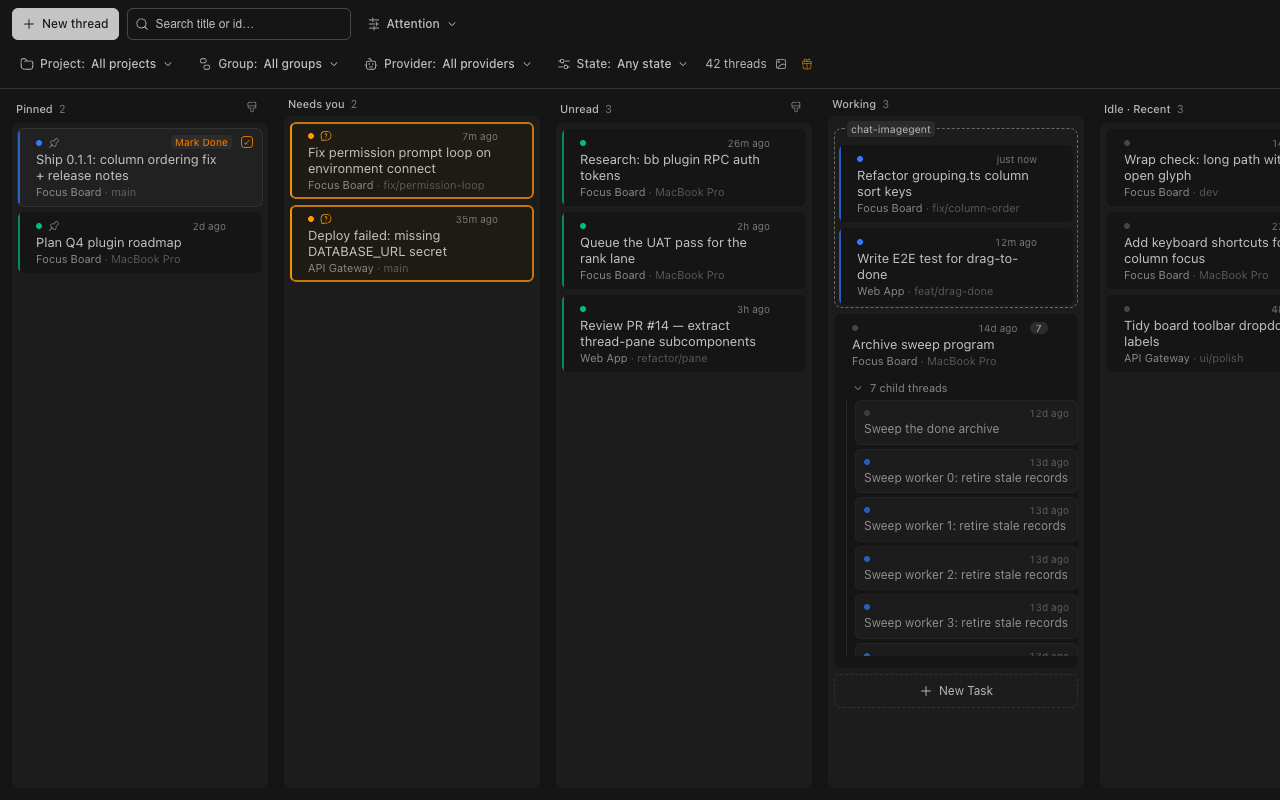
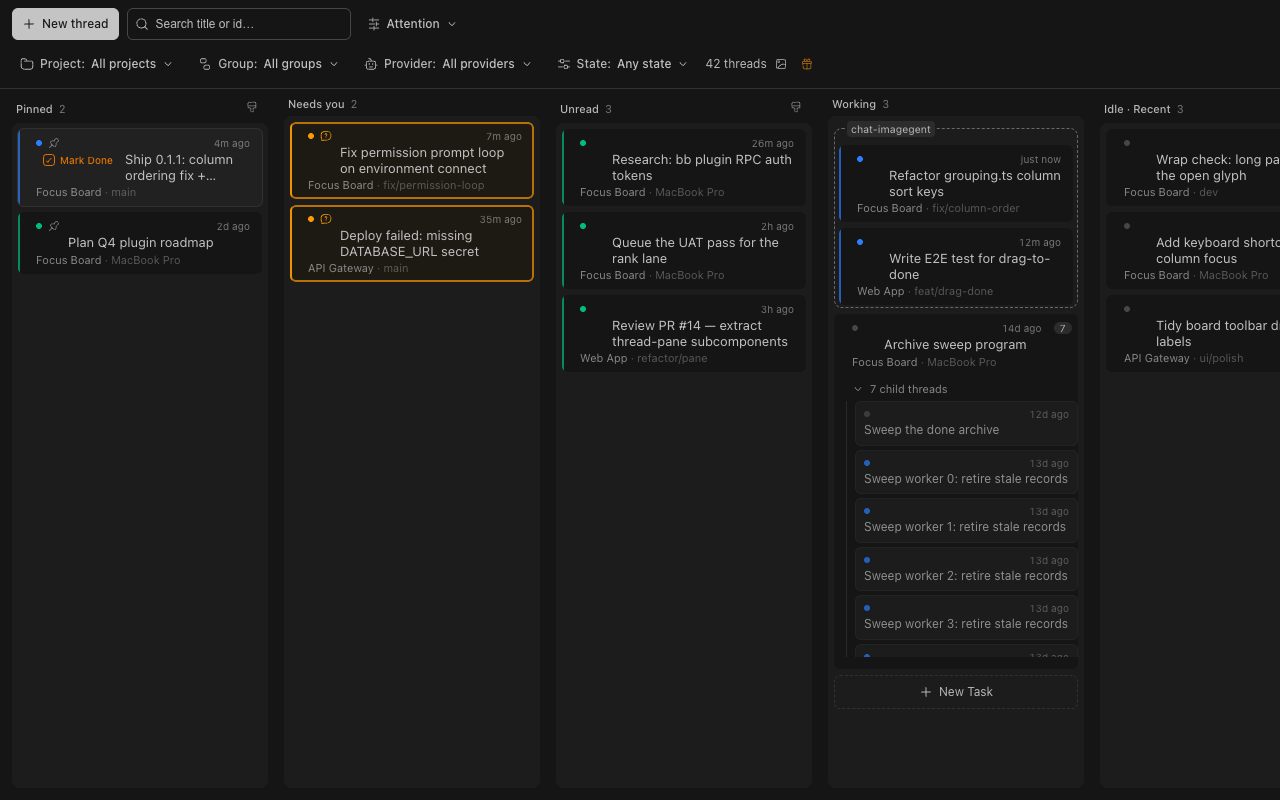
The done checkbox moves left of the title; done cards arm Mark Not Done

diff --git a/components/thread-card.tsx b/components/thread-card.tsx
@@ -88,11 +88,12 @@ interface ThreadCardProps {
    */
   onSweepToggle?: (threadId: string, gesture: SweepClickGesture) => void;
   /**
-   * The hover Mark Done checkbox's write, for non-done cards: the empty
-   * checkbox reveals on card hover, the first click arms it ("Mark Done"),
-   * the second click fires this. Absent → no checkbox renders (done cards,
-   * unwired surfaces, compact context minis). The board passes the same
-   * "done" menu action's run, so the checkbox shares the menu's full
+   * The title-row checkbox's write, wired both ways: the "done" menu
+   * action's run, which marks a not-done thread done and a done thread not
+   * done (the card mirrors: an empty box on not-done cards, a checked one
+   * on done). The first click arms, the second fires this. Absent → no
+   * checkbox renders (unwired surfaces: compact context minis). The board
+   * passes the menu action's run, so the checkbox shares the menu's full
    * done recipe with no second source of truth.
    */
   onMarkDone?: () => void;
@@ -615,24 +616,29 @@ export function ThreadCard({
   const fades = isDone || dimmed || snoozed;
   const dimsByScrim = wallpaperActive && fades && !isSweepHighlighted;
 
-  // The two-click Mark Done checkbox (non-done cards only): idle the card
-  // carries an empty checkbox that only paints on hover (the CSS `group`
-  // reveals it); the first click ARMS it — the icon fills to a check and a
-  // "Mark Done" tag slides out over the timestamp — and the second click
-  // fires `onMarkDone`. Hovering away disarms, so an armed card never
-  // survives a stray pointer into a later accidental settle. Sweeps are
-  // modal: while this card's column curates a sweep the checkbox cedes
-  // every click to the selection gesture.
+  // The two-click Mark Done checkbox, sitting LEFT OF THE THREAD TITLE in a
+  // reserved gutter (the title never reflows on hover — only ARMING pushes,
+  // adding the inline label so the title wraps in the narrower space).
+  // Done cards mirror it: a checked box that arms "Mark Not Done". The
+  // first click arms, the second fires `onMarkDone`; hovering away disarms,
+  // so an armed card never survives a stray pointer into a later
+  // accidental settle. Sweeps are modal: while this card's column curates
+  // a sweep the checkbox cedes every click to the selection gesture.
   const [armedDone, setArmedDone] = useState(false);
-  const showDoneCheckbox = !isDone && onMarkDone !== undefined && !isSweepSelecting;
+  const showDoneCheckbox = onMarkDone !== undefined && !isSweepSelecting;
+  const doneLabel = isDone ? "Mark Not Done" : "Mark Done";
   const doneCheckbox = showDoneCheckbox ? (
     <button
       type="button"
       data-done-checkbox=""
       data-done-armed={armedDone ? "" : undefined}
-      aria-label={armedDone ? "Mark Done" : "Arm Mark Done"}
-      title={armedDone ? "Click again to mark done" : "Click to confirm Mark Done"}
+      aria-label={armedDone ? doneLabel : `Arm ${doneLabel}`}
+      title={armedDone ? "Click again to confirm" : "Click to arm"}
       onClick={(event) => {
+        // The checkbox lives inside the card's anchor — the ticket-chip
+        // precedent (interactive content in the anchor's flow). The stop
+        // keeps the anchor's own activation (open the pane, the sweep
+        // toggle, the native href) from firing under the checkbox's click.
         event.preventDefault();
         event.stopPropagation();
         if (armedDone) {
@@ -643,14 +649,14 @@ export function ThreadCard({
         }
       }}
       className={cn(
-        "relative -my-1 flex shrink-0 items-center justify-center rounded-sm p-0.5 transition-colors focus:outline-none focus-visible:ring-2 focus-visible:ring-ring",
+        "mt-px flex shrink-0 items-center gap-1 rounded-sm focus:outline-none focus-visible:ring-2 focus-visible:ring-ring",
         armedDone
-          ? "opacity-100 text-amber-600"
+          ? "text-amber-600"
           : "text-muted-foreground/50 opacity-0 group-hover:opacity-100 focus-visible:opacity-100",
       )}
     >
       <Icon
-        name={armedDone ? "CheckboxChecked" : "Checkbox"}
+        name={armedDone || isDone ? "CheckboxChecked" : "Checkbox"}
         className="size-3.5 shrink-0"
         aria-hidden
       />
@@ -658,9 +664,9 @@ export function ThreadCard({
         <span
           data-done-armed-tag=""
           aria-hidden
-          className="absolute right-full top-1/2 mr-1.5 -translate-y-1/2 whitespace-nowrap rounded-sm bg-muted px-1 py-0.5 text-[10px] font-medium leading-none text-amber-600"
+          className="whitespace-nowrap text-[10px] font-medium leading-none"
         >
-          Mark Done
+          {doneLabel}
         </span>
       ) : null}
     </button>
@@ -832,7 +838,14 @@ export function ThreadCard({
               {relativeTime(thread.updatedAt, now)}
             </span>
           </div>
-          <p className={cn("mt-0.5 line-clamp-2 pl-1.5 leading-snug", compact ? "text-[11px]" : "text-[13px]")}>{thread.displayTitle}</p>
+          {doneCheckbox === null ? (
+            <p data-title="" className={cn("mt-0.5 line-clamp-2 pl-1.5 leading-snug", compact ? "text-[11px]" : "text-[13px]")}>{thread.displayTitle}</p>
+          ) : (
+            <div className="mt-0.5 flex items-start gap-1.5 pl-1.5">
+              {doneCheckbox}
+              <p data-title="" className={cn("min-w-0 flex-1 line-clamp-2 leading-snug", compact ? "text-[11px]" : "text-[13px]")}>{thread.displayTitle}</p>
+            </div>
+          )}
           <p className="mt-0.5 truncate pl-1.5 text-[11px] text-muted-foreground/70">
             {projectName}
             {branch === "" ? null : <span className="text-muted-foreground/40"> · {branch}</span>}
@@ -861,17 +874,14 @@ export function ThreadCard({
             </div>
           )}
         </a>
-        {chipCount > 0 || doneCheckbox !== null ? (
-          <div className="flex shrink-0 items-start gap-1.5 py-2 pr-1.5">
-            {chipCount > 0 ? (
-              // Family-size metadata only: the collapsed rows' dot strip lives in
-              // the child section below, directly under the "N child threads"
-              // label it describes.
-              <span className="rounded-full bg-muted px-1.5 text-[10px] tabular-nums text-muted-foreground">
-                {chipCount}
-              </span>
-            ) : null}
-            {doneCheckbox}
+        {chipCount > 0 ? (
+          // Family-size metadata only: the collapsed rows' dot strip lives in
+          // the child section below, directly under the "N child threads"
+          // label it describes.
+          <div className="flex shrink-0 items-start py-2 pr-1.5">
+            <span className="rounded-full bg-muted px-1.5 text-[10px] tabular-nums text-muted-foreground">
+              {chipCount}
+            </span>
           </div>
         ) : null}
       </div>

diff --git a/tests/thread-card-done-checkbox.test.tsx b/tests/thread-card-done-checkbox.test.tsx
@@ -1,10 +1,12 @@
 // @vitest-environment jsdom
-// The hover Mark Done checkbox: on a non-done card, hovering reveals an
-// empty checkbox; the first click ARMS it ("Mark Done"), the second click
-// marks the thread done. A two-click arm exists so a stray hover-click can
-// never silently settle a thread into Done. This file pins the behavior the
-// operator actually sees: reveal, arm, confirm, disarm-on-leave, and the
-// gates (done cards and unwired cards render no checkbox).
+// The title-row Mark Done checkbox: a checkbox sits LEFT OF THE THREAD TITLE
+// in a reserved gutter (the title never reflows on hover — only arming
+// pushes, adding the inline label so the title wraps in the narrower
+// space). The first click ARMS, the second click fires the write. Done
+// cards mirror it: a CHECKED box that arms "Mark Not Done". This file pins
+// the behavior the operator actually sees: placement (title row, not the
+// corner), arm, confirm, disarm-on-leave, the done mirror, and the gates
+// (unwired surfaces and sweep-selecting mode render nothing).
 import { afterEach, describe, expect, it, vi } from "vitest";
 import { cleanup, fireEvent, render } from "@testing-library/react";
 import { ThreadCard } from "../components/thread-card";
@@ -38,46 +40,39 @@ function checkbox(): HTMLElement {
   return node;
 }
 
-describe("the hover Mark Done checkbox", () => {
-  it("renders on a non-done card with the wired handler, idle and unarmed", () => {
+describe("the title-row Mark Done checkbox", () => {
+  it("sits in the title row, left of the title, reserving the gutter", () => {
     card({ onMarkDone: () => {} });
     const node = checkbox();
+    // Structural placement contract: the checkbox's flex sibling is the
+    // title paragraph, so the box reads left of the title and the armed
+    // label grows in-flow (pushing the title right), never floating over
+    // the corner.
+    const row = node.parentElement;
+    if (!(row instanceof HTMLElement)) throw new Error("missing title row");
+    expect(row.className).toContain("flex");
+    const title = row.querySelector("p");
+    if (!(title instanceof HTMLElement)) throw new Error("missing title");
+    expect(title.className).toContain("flex-1");
+    expect(node.nextElementSibling).toBe(title);
+    // Idle: the empty checkbox glyph, unarmed, no label text.
     expect(node.hasAttribute("data-done-armed")).toBe(false);
-    // Idle state shows the EMPTY checkbox glyph (structural contract; the
-    // group-hover reveal itself is CSS).
-    const icon = node.querySelector("[data-icon]");
-    expect(icon?.getAttribute("data-icon")).toBe("Checkbox");
+    expect(node.querySelector("[data-icon]")?.getAttribute("data-icon")).toBe("Checkbox");
     expect(node.textContent).not.toContain("Mark Done");
   });
 
-  it("does not render on a done card", () => {
-    card({ isDone: true, onMarkDone: () => {} });
-    expect(document.querySelector("[data-done-checkbox]")).toBeNull();
-  });
-
-  it("does not render when the board gives no handler", () => {
-    card({});
-    expect(document.querySelector("[data-done-checkbox]")).toBeNull();
-  });
-
-  it("does not render in sweep-selecting mode (the click there curates the sweep)", () => {
-    card({ onMarkDone: () => {}, isSweepSelecting: true });
-    expect(document.querySelector("[data-done-checkbox]")).toBeNull();
-  });
-
-  it("arms on the first click without marking done", () => {
+  it("arms on the first click without firing the write, label pushing the title", () => {
     const onMarkDone = vi.fn();
     card({ onMarkDone });
     const node = checkbox();
     fireEvent.click(node);
     expect(node.hasAttribute("data-done-armed")).toBe(true);
     expect(node.textContent).toContain("Mark Done");
-    const icon = node.querySelector("[data-icon]");
-    expect(icon?.getAttribute("data-icon")).toBe("CheckboxChecked");
+    expect(node.querySelector("[data-icon]")?.getAttribute("data-icon")).toBe("CheckboxChecked");
     expect(onMarkDone).not.toHaveBeenCalled();
   });
 
-  it("marks done on the second click and disarms", () => {
+  it("fires the write on the second click and disarms", () => {
     const onMarkDone = vi.fn();
     card({ onMarkDone });
     const node = checkbox();
@@ -87,7 +82,7 @@ describe("the hover Mark Done checkbox", () => {
     expect(node.hasAttribute("data-done-armed")).toBe(false);
   });
 
-  it("disarms when the pointer leaves the card, without marking done", () => {
+  it("disarms when the pointer leaves the card, without firing the write", () => {
     const onMarkDone = vi.fn();
     card({ onMarkDone });
     const node = checkbox();
@@ -98,5 +93,33 @@ describe("the hover Mark Done checkbox", () => {
     fireEvent.pointerLeave(root);
     expect(node.hasAttribute("data-done-armed")).toBe(false);
     expect(onMarkDone).not.toHaveBeenCalled();
+  });
+
+  it("mirrors on a done card: a checked box that arms Mark Not Done", () => {
+    const onMarkDone = vi.fn();
+    card({ isDone: true, onMarkDone });
+    const node = checkbox();
+    // Idle done card: the CHECKED glyph, no label.
+    expect(node.querySelector("[data-icon]")?.getAttribute("data-icon")).toBe("CheckboxChecked");
+    expect(node.textContent).not.toContain("Mark Not Done");
+    // Armed: the "Mark Not Done" label joins in-flow.
+    fireEvent.click(node);
+    expect(node.hasAttribute("data-done-armed")).toBe(true);
+    expect(node.textContent).toContain("Mark Not Done");
+    expect(onMarkDone).not.toHaveBeenCalled();
+    // Confirm: the write fires (the handler flips done off its own state).
+    fireEvent.click(node);
+    expect(onMarkDone).toHaveBeenCalledTimes(1);
+    expect(node.hasAttribute("data-done-armed")).toBe(false);
+  });
+
+  it("does not render when the surface gives no handler", () => {
+    card({});
+    expect(document.querySelector("[data-done-checkbox]")).toBeNull();
+  });
+
+  it("does not render in sweep-selecting mode (the click there curates the sweep)", () => {
+    card({ onMarkDone: () => {}, isSweepSelecting: true });
+    expect(document.querySelector("[data-done-checkbox]")).toBeNull();
   });
 });

diff --git a/components/board.tsx b/components/board.tsx
@@ -2745,14 +2745,11 @@ export function Board({
                           validatedHrefs={validatedHrefs}
                           menuActions={menuActionsFor(thread)}
                           // The hover checkbox shares the menu's "done"
-                          // action run (one done recipe); done cards and the
-                          // Done family projections get no checkbox.
-                          onMarkDone={
-                            doneIds.has(thread.id) || isDoneProjection
-                              ? undefined
-                              : menuActionsFor(thread).find((action) => action.id === "done")
-                                  ?.run
-                          }
+                          // action run (one done recipe), in both
+                          // directions: on a not-done card it marks done,
+                          // on a done card (Done lane and family
+                          // projections included) it marks not done.
+                          onMarkDone={menuActionsFor(thread).find((action) => action.id === "done")?.run}
                           childThreads={
                             isDoneProjection
                               ? projectionChildren

diff --git a/lib/unreleased-changelog.generated.ts b/lib/unreleased-changelog.generated.ts
@@ -19,7 +19,7 @@ export const UNRELEASED_ITEMS: readonly { text: string; children: string[]; grou
     ]
   },
   {
-    "text": "**A hover checkbox marks a card done.** Hovering a not-done card shows an empty checkbox; the first click arms it with a \"Mark Done\" tag, the second click settles the thread into Done, and hovering away disarms so a stray pointer settles nothing.",
+    "text": "**A title checkbox settles threads.** Hovering a card shows a checkbox left of its title, empty on not-done cards and checked on done; the first click arms it (\"Mark Done\" or \"Mark Not Done\" inline, pushing the title to wrap) and the second click writes, with hovering away disarming so a stray pointer settles nothing.",
     "children": []
   },
   {

diff --git a/docs/test-coverage-matrix.md b/docs/test-coverage-matrix.md
@@ -125,7 +125,7 @@ happy-path coverage suffices except where a cell is filled anyway.
 | Standing security gates (`npm run gates`, 1.0 hardening) | low | auto (`scripts/security-gates.mjs` — npm audit prod+dev trees at 0, dangerous-sink greps over shipped code with the audits' documented allowlists, window.open noopener across multi-line statements) | auto (a new sink or vulnerability fails the cut with file:line) | skip | skip |
 | Ticket-ref detection (`findTicketRefs`: `#N` with a hostname on non-GitHub bases, GitHub URLs; WORD-123 keys never match — no project can validate a bare key) + forgejo item URLs (`forgejoItemBase`) | low | auto (`tests/tickets.test.ts`) | auto (`#0`, non-GitHub URLs rejected; lowercase/mid-word keys stay inert; forgejo regexes refuse github.com remotes and shapeless URLs, git@ github excluded) | auto (dates/versions/bare-fragment guards still hold; dedup across title+branch; forgejo base builds `…/issues/N` href + hostname; github base emits no hostname) | skip (pure ordering) |
 | Ticket-chip icons (issue vs PR glyph + provider mark, `components/thread-card.tsx`) | low | auto (`tests/thread-card-ticket-chips.test.tsx` — GitHub brand mark on `#N` refs, generic ticket mark on keys (unreachable from text scan since word keys stopped chipping; kept for non-text chip sources), issue glyph by default and from `/issues/` URLs, PR glyph from `/pull/` URLs) | auto (no PR glyph swap without a `/pull/` URL or status; keys never render the GitHub mark) | auto (live status colors: open emerald, merged purple with the merge glyph, closed muted with the closed-PR glyph; `aria-label` carries kind + state; `tests/tickets.test.ts` pins `kind` on URL refs and kindless `#N`) | skip (chip is covered in the screenshot harness; two-glyph layout verified) |
-| Hover Mark Done checkbox (two-click arm, `components/thread-card.tsx` right column + the board's `onMarkDone` wire reusing the "done" menu action's run) | low (a board-local done write through the menu's own handler) | auto (`tests/thread-card-done-checkbox.test.tsx` — a non-done wired card renders the idle empty checkbox; first click arms (`data-done-armed`, "Mark Done" tag, `CheckboxChecked` glyph) without firing the handler; second click fires it once and disarms) | auto (a done card, an unwired surface, and sweep-selecting mode each render no checkbox — the sweep curates, the checkbox never steals a click) | auto (pointer leave disarms without a write, so an armed card never survives a stray pointer; the reveal is CSS `group-hover`, pinned structurally via the idle glyph contract; evidence shots `docs/screenshots/repro-done-checkbox/` from `scripts/screenshot/repro-done-checkbox.mjs` — hover opacity 1, armed tag, card lands in Done) | manual (live bb: hover, arm, confirm a real thread; the tag overlays the timestamp legibly at narrow card widths) |
+| Title-row Mark Done checkbox (two-click arm, `components/thread-card.tsx` title row + the board's `onMarkDone` wire reusing the "done" menu action's run, both directions) | low (a board-local done write through the menu's own handler) | auto (`tests/thread-card-done-checkbox.test.tsx` — the checkbox is the title paragraph's flex sibling (left of the title, gutter reserved, hover never reflows); first click arms (`data-done-armed`, inline "Mark Done" label, `CheckboxChecked` glyph) without firing the handler; second click fires it once and disarms) | auto (an unwired surface and sweep-selecting mode each render no checkbox — the sweep curates, the checkbox never steals a click) | auto (a done card mirrors: idle CHECKED glyph, armed "Mark Not Done" label, confirm fires once — the same action run flipped by the thread's own done state; pointer leave disarms without a write, so an armed card never survives a stray pointer; evidence shots `docs/screenshots/repro-done-checkbox/` from `scripts/screenshot/repro-done-checkbox.mjs` — hover opacity 1 + box left of title, armed push measured (title width 182px → 125px), card lands in Done, done-armed tag reads) | manual (live bb: hover, arm, confirm both directions on real threads; the armed label's wrap reads at narrow card widths) |
 | Ticket-chip link-out (repo base from `gitRemoteUrl`, href or inert chip) | low | auto (`tests/tickets.test.ts` href resolution) | auto (no base → no href) | auto (pull URL keeps its own href) | skip |
 | Thread→GitHub links (`linkedIssues` metadata, `link_set`/`link_clear`/`link_list` RPCs, `link` CLI, `focus_board_link_issue` tool) | low (board-local plugin metadata) | auto (`tests/link-metadata.test.ts` helpers + chip merge, `tests/link-rpc.test.ts` RPC/CLI write paths, `tests/link-agent-tool.test.ts` tool registration + repo resolution from `gitRemoteUrl`) | auto (missing remote → tool isError telling the agent to pass the URL, CLI PluginCliError with that hint; absent/clear → unlinked, no tombstones) | auto (empty array → key removed; re-link upserts by repo+number moving it primary; GitHub `/issues/N ↔ /pull/N` redirect makes kind non-identity) | auto (malformed stored record → every reader throws, chips row keeps rendering from text refs only because the read only runs on live-thread list walks; cross-repo same number dedupes to the primary chip; no deleted-thread index — no sweep consumes links) |
 | External tracker links (`ExternalItemLink` store variant: URL-identity records, any-https forms in `link_set`/`link set`/`focus_board_link_issue` with optional `label`) | low (board-local plugin metadata) | auto (`tests/link-metadata.test.ts` external parse/merge + `makeExternalLink`, `tests/link-rpc.test.ts` external + URL forms, `tests/link-agent-tool.test.ts` external URL forms) | auto (non-https, unparseable URL, empty/81-char label all throw; `http://` and url+number mixes rejected at the RPC/tool boundary; missing remote still tells the agent to pass the URL) | auto (legacy records without a `tracker` field parse as GitHub; hostname derived from the URL never trusted from storage; external links excluded from the status-dot batch (`linkedRefKeys`); clearing a GitHub number keeps externals; upsert by exact URL) | auto (stored-impostor hostname ignored; label-less chips fall back to hostname) |

diff --git a/CHANGELOG.md b/CHANGELOG.md
@@ -12,7 +12,7 @@ The format follows [Keep a Changelog](https://keepachangelog.com/en/1.1.0/).
 - **The lane move gains a zoom transport.** A board playing the zoom sends a moved card shrinking into its old lane's slot while that slot's space closes with it, then the card grows from small to full in its new lane as the slot's space opens on the same clock, so the space and the card land together. The transporter dissolve stays the default.
 - **The board's settings live in one gear.** A modal with Behavior, What's new, and About panels replaces the standalone What's-new alert; the toolbar icon is a pulsing gift while there is unseen changelog — its click lands straight on the news — and a settings gear otherwise.
   - **Appearance joins the tabs.** Card animations pick the transporter read (None snaps into place, Teleport dissolves, Zoom out / in waits visibly), motion can force quieter or fuller animation than the OS setting, and the wallpaper picker lives here; the rail marks the read tab with an accent bar, and What's-new lines fresh on dev tint amber.
-- **A hover checkbox marks a card done.** Hovering a not-done card shows an empty checkbox; the first click arms it with a "Mark Done" tag, the second click settles the thread into Done, and hovering away disarms so a stray pointer settles nothing.
+- **A title checkbox settles threads.** Hovering a card shows a checkbox left of its title, empty on not-done cards and checked on done; the first click arms it ("Mark Done" or "Mark Not Done" inline, pushing the title to wrap) and the second click writes, with hovering away disarming so a stray pointer settles nothing.
 
 #### Settings
 
